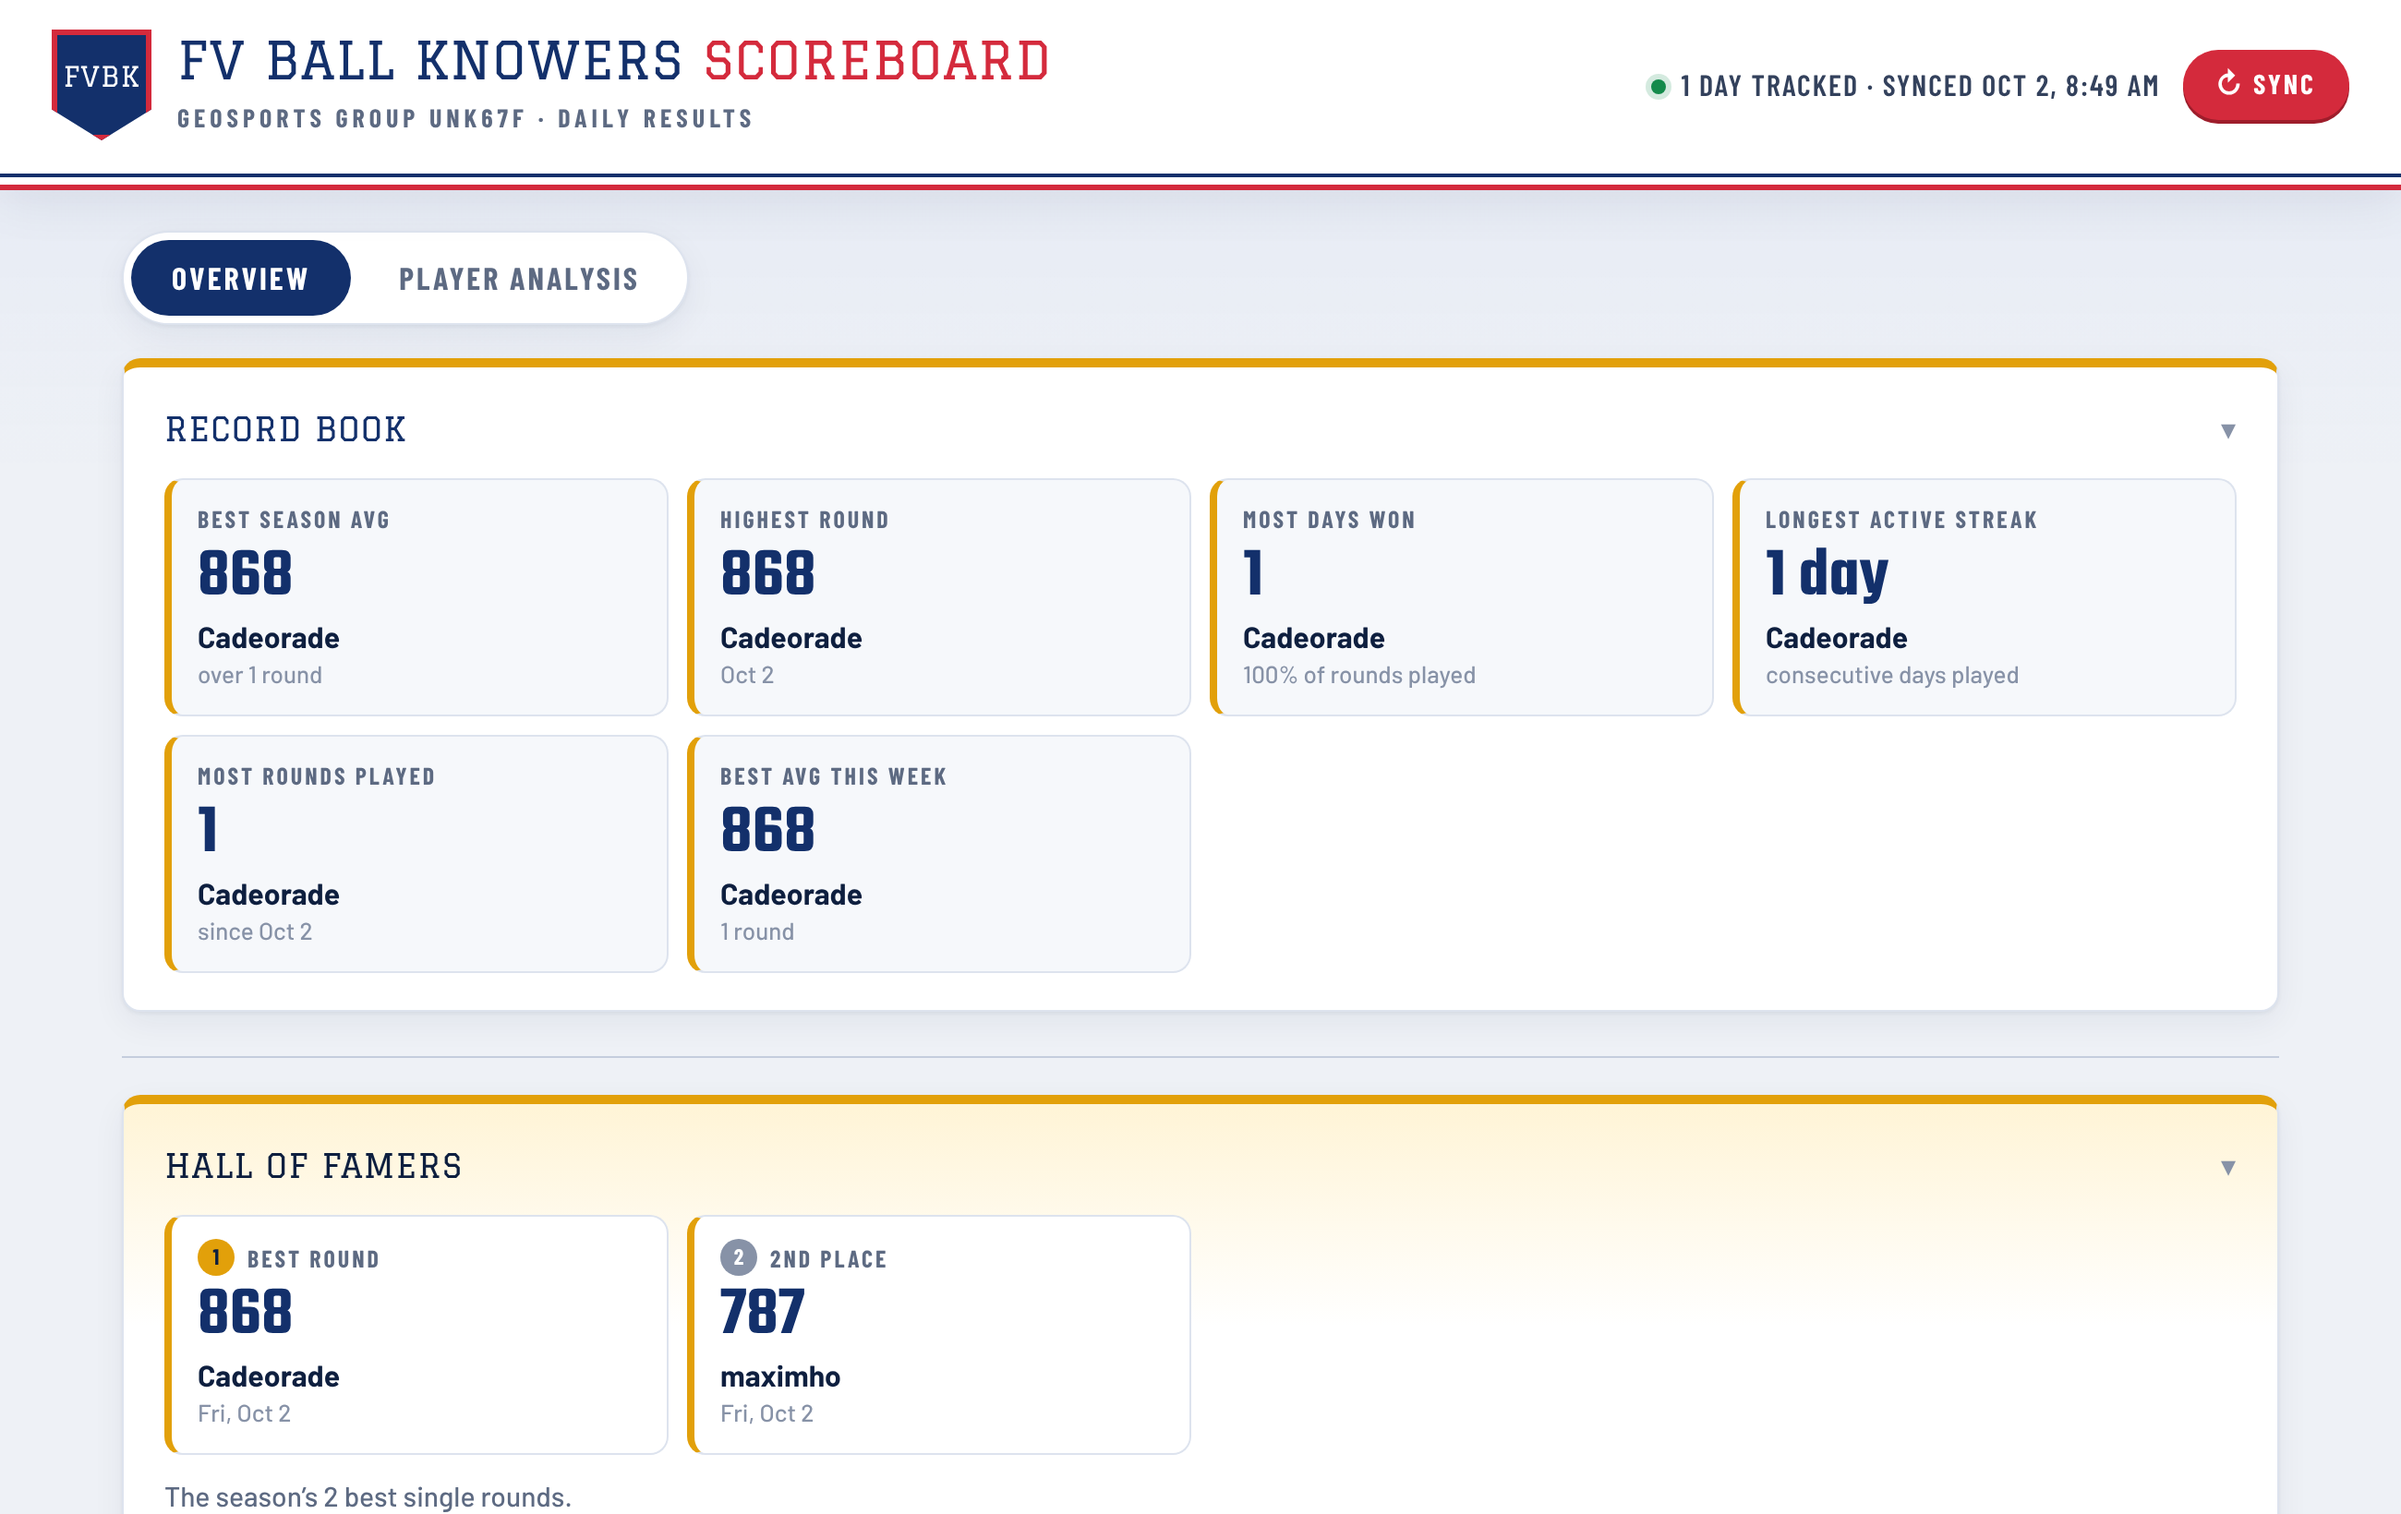
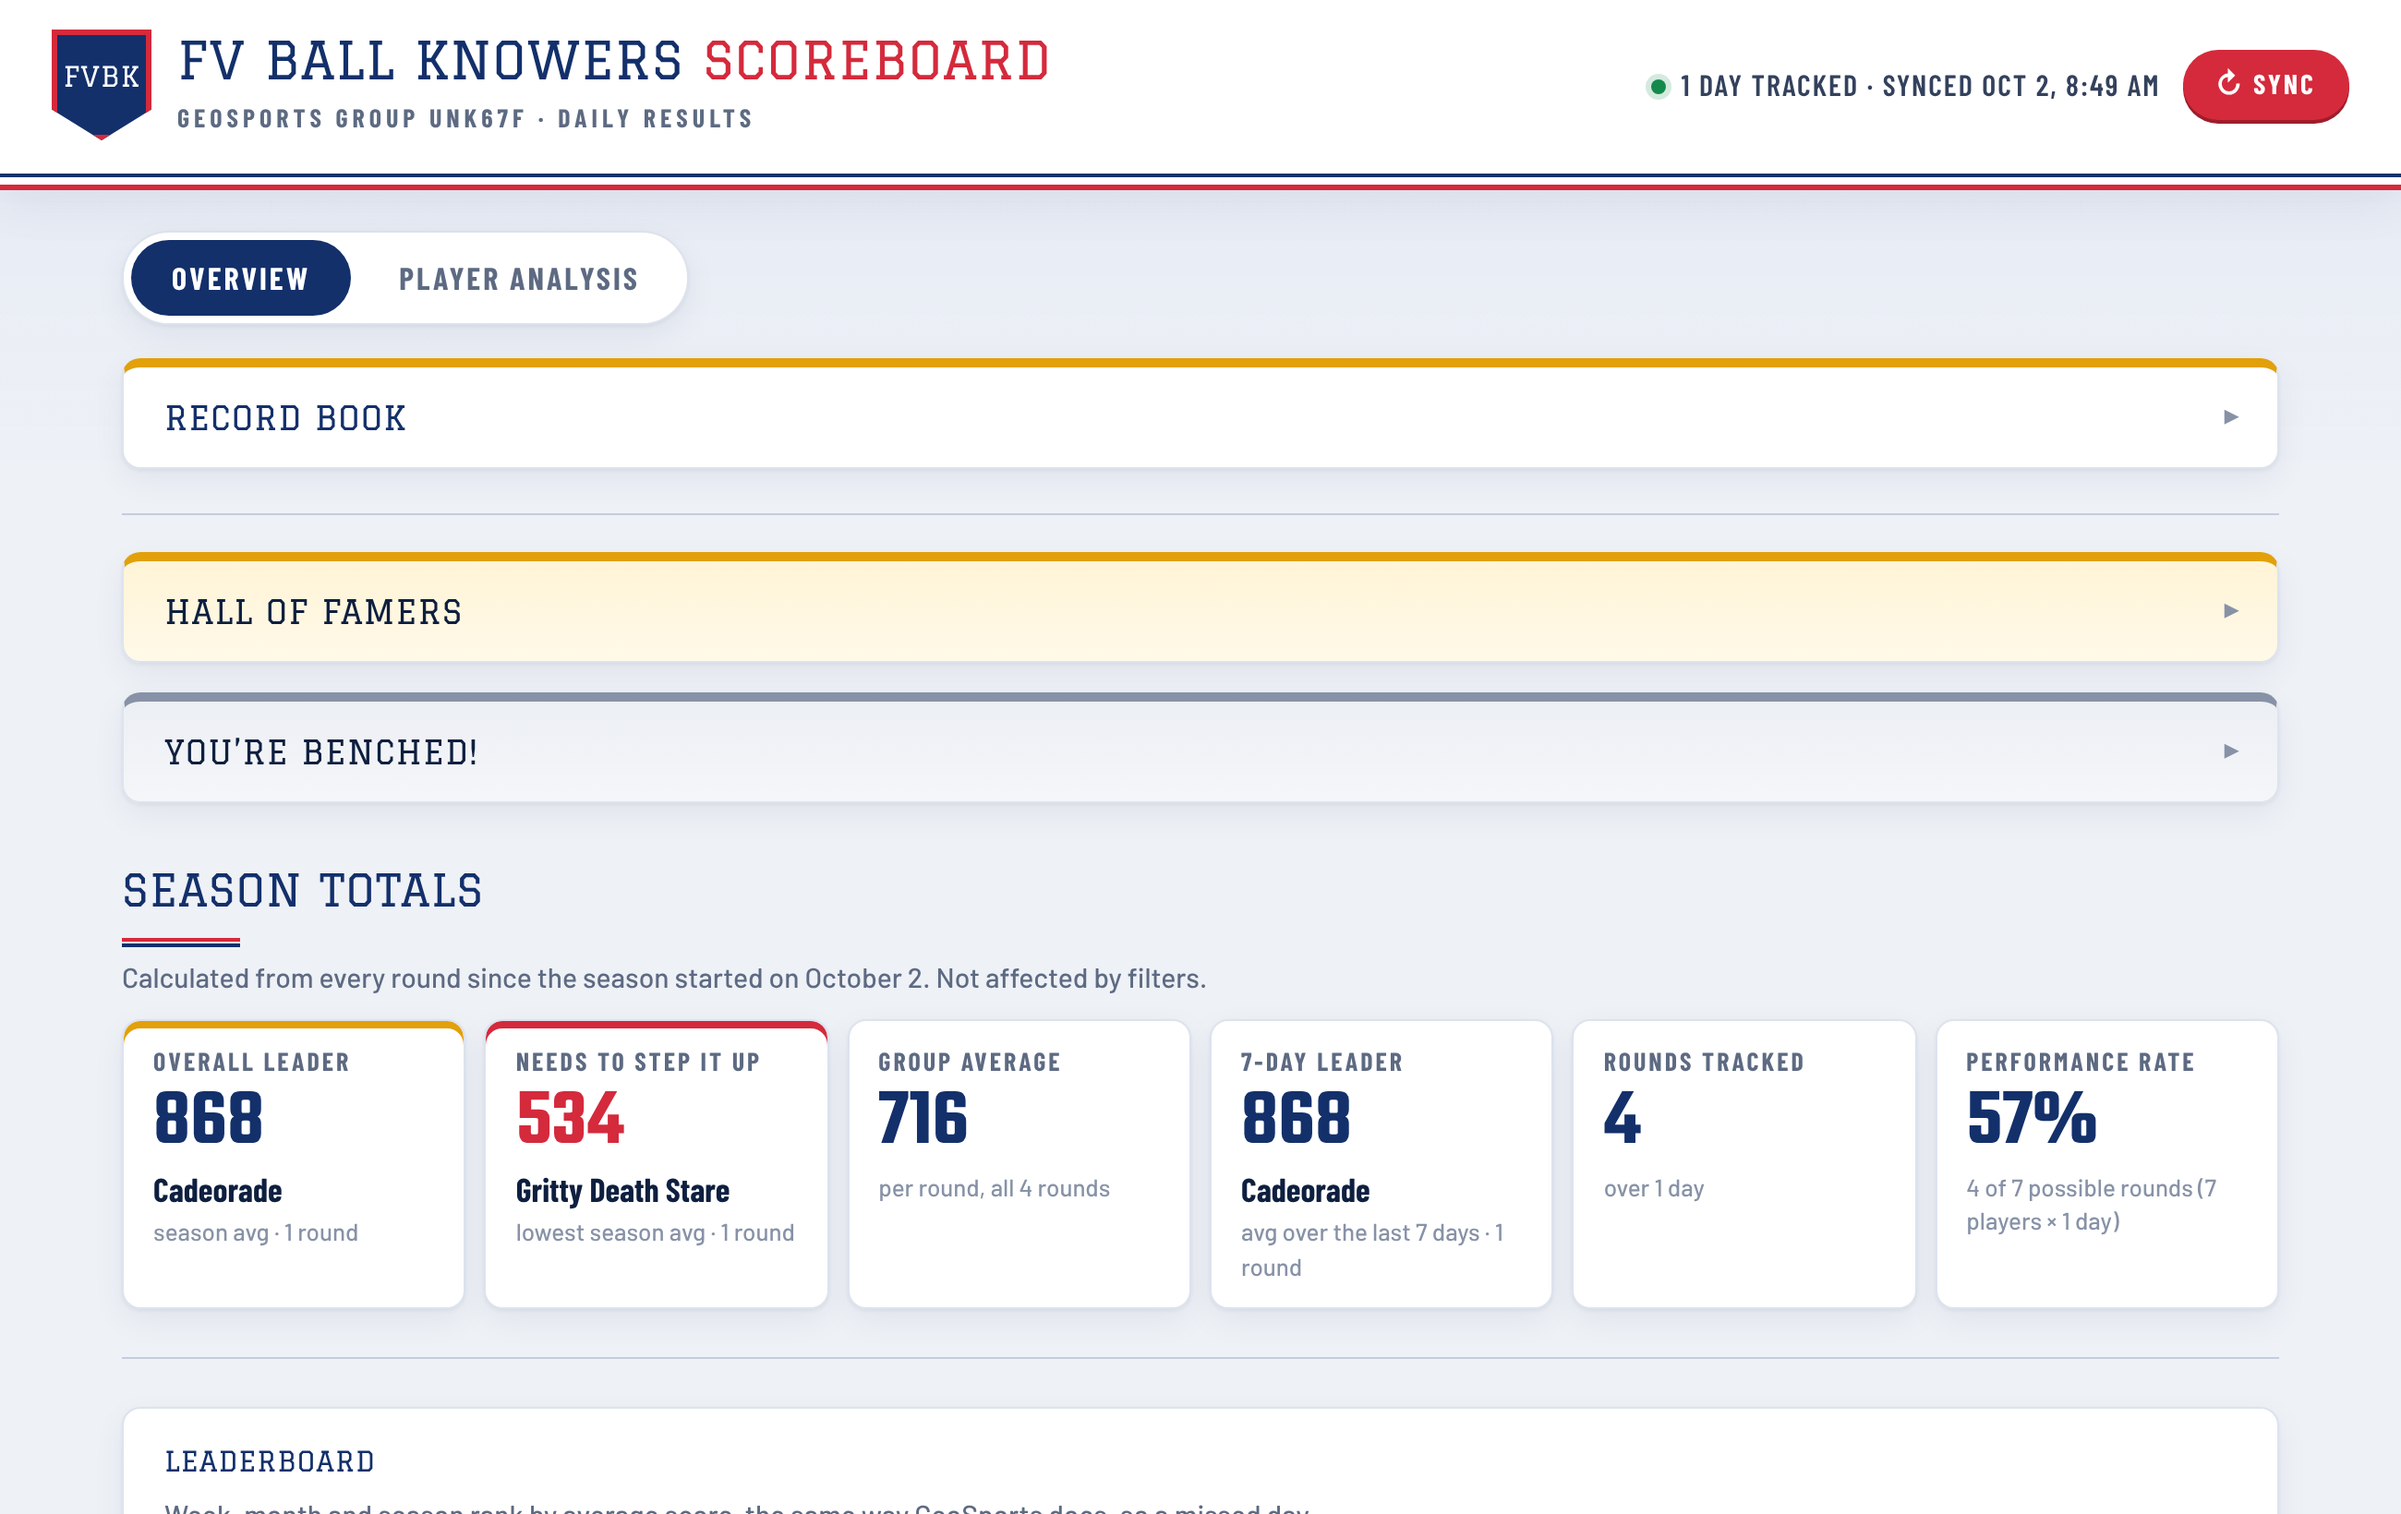
Hall of Famers / You're Benched! show top and bottom 3; top sections start collapsed

Changed region(s): [[0.0312, 0.2488, 0.9658, 1.0], [0.4985, 0.5287, 0.9346, 0.5598]]

diff --git a/index.html b/index.html
@@ -252,7 +252,7 @@
 (function () {
   'use strict';
   const PALETTE = ['#c98a00', '#1f4fd1', '#d42a3c', '#138a4b', '#7c3aed', '#ea580c', '#db2777', '#0e9488'];
-  const S = { meta: null, days: [], tab: 'overview', period: 'week', players: new Set(), range: '30', focus: null, open: { bests: true, hof: true, bench: true, results: false } };
+  const S = { meta: null, days: [], tab: 'overview', period: 'week', players: new Set(), range: '30', focus: null, open: { bests: false, hof: false, bench: false, results: false } };
   const charts = {};
   const $ = (id) => document.getElementById(id);
   const esc = (s) => String(s ?? '').replace(/[&<>"']/g, (c) => ({ '&': '&amp;', '<': '&lt;', '>': '&gt;', '"': '&quot;', "'": '&#39;' }[c]));
@@ -365,10 +365,10 @@
 
     const firstFull = complete[0]?.date;
     // Hall of Famers / You're Benched!: best and worst single rounds. Each list takes at most half
-    // the season's rounds (max 5), so the same round never shows up on both lists.
+    // the season's rounds (max 3), so the same round never shows up on both lists.
     const rounds = [];
     M.days.forEach((d) => Object.entries(d.scores).forEach(([id, sc]) => { if (byId[id]) rounds.push({ id, score: sc, date: d.date }); }));
-    const nList = Math.min(5, Math.floor(rounds.length / 2));
+    const nList = Math.min(3, Math.floor(rounds.length / 2));
     const top = [...rounds].sort((a, b) => b.score - a.score || (a.date < b.date ? -1 : 1)).slice(0, nList);
     const bottom = [...rounds].sort((a, b) => a.score - b.score || (a.date < b.date ? -1 : 1)).slice(0, nList);
     const roundCards = (list) => list.map((r, i) => `<div class="item"><div class="lbl"><span class="place">${i + 1}</span>${i === 0 ? (list === top ? 'Best round' : 'Worst round') : ordinal(i + 1) + ' place'}</div><div class="val">${fmt(r.score)}</div><div class="who">${name(r.id)}</div><div class="s">${esc(fmtDate(r.date, { weekday: 'short', month: 'short', day: 'numeric' }))}</div></div>`).join('');
@@ -383,8 +383,8 @@
         <div class="card-body"><div class="item-grid">${bests.map(([l, v, w, s]) => `<div class="item"><div class="lbl">${l}</div><div class="val">${v}</div><div class="who">${esc(w)}</div><div class="s">${esc(s)}</div></div>`).join('')}</div></div>
       </section>
       <hr class="exec-rule">
-      ${listSection('hof', 'hof', 'Hall of Famers', top, `The season’s ${nList === 1 ? 'best single round' : nList + ' best single rounds'}.`)}
-      ${listSection('bench', 'bench', 'You’re Benched!', bottom, `The season’s ${nList === 1 ? 'worst single round' : nList + ' worst single rounds'}. Tied scores are listed by date, earliest first.`)}
+      ${listSection('hof', 'hof', 'Hall of Famers', top, `The ${nList === 1 ? 'best single round' : nList + ' best single rounds'} since the season started.`)}
+      ${listSection('bench', 'bench', 'You’re Benched!', bottom, `The ${nList === 1 ? 'worst single round' : nList + ' worst single rounds'} since the season started. Tied scores are listed by date, earliest first.`)}
 
       <h2 class="section-title">Season Totals</h2>
       <p class="section-sub">Calculated from every round since the season started on ${esc(fmtDate(M.m.start, { month: 'long', day: 'numeric' }))}. Not affected by filters.</p>

diff --git a/README.md b/README.md
@@ -9,8 +9,8 @@ A live scoreboard for my friends' daily [GeoSports](https://geosports.app) games
 ## What it does
 
 **Overview tab**
-- Record Book (the executive summary): best season average, highest round, most days won, longest streak, most rounds played
-- Hall of Famers and You're Benched!: the season's best and worst single rounds
+- Record Book (the executive summary; it, Hall of Famers and You're Benched! start collapsed): best season average, highest round, most days won, longest streak, most rounds played
+- Hall of Famers and You're Benched!: the season's top 3 and bottom 3 single rounds
 - Season Totals: overall leader and lowest average, group average, 7-day leader, rounds tracked, and performance rate (rounds played out of every possible player-day)
 - Leaderboard for today, this week, this month and the season, ranked by average like GeoSports does, with a 7-day trend line per player
 - Daily scores chart (500 to 1,000 scale, hover any dot for the date and score) with player and date-range filters
